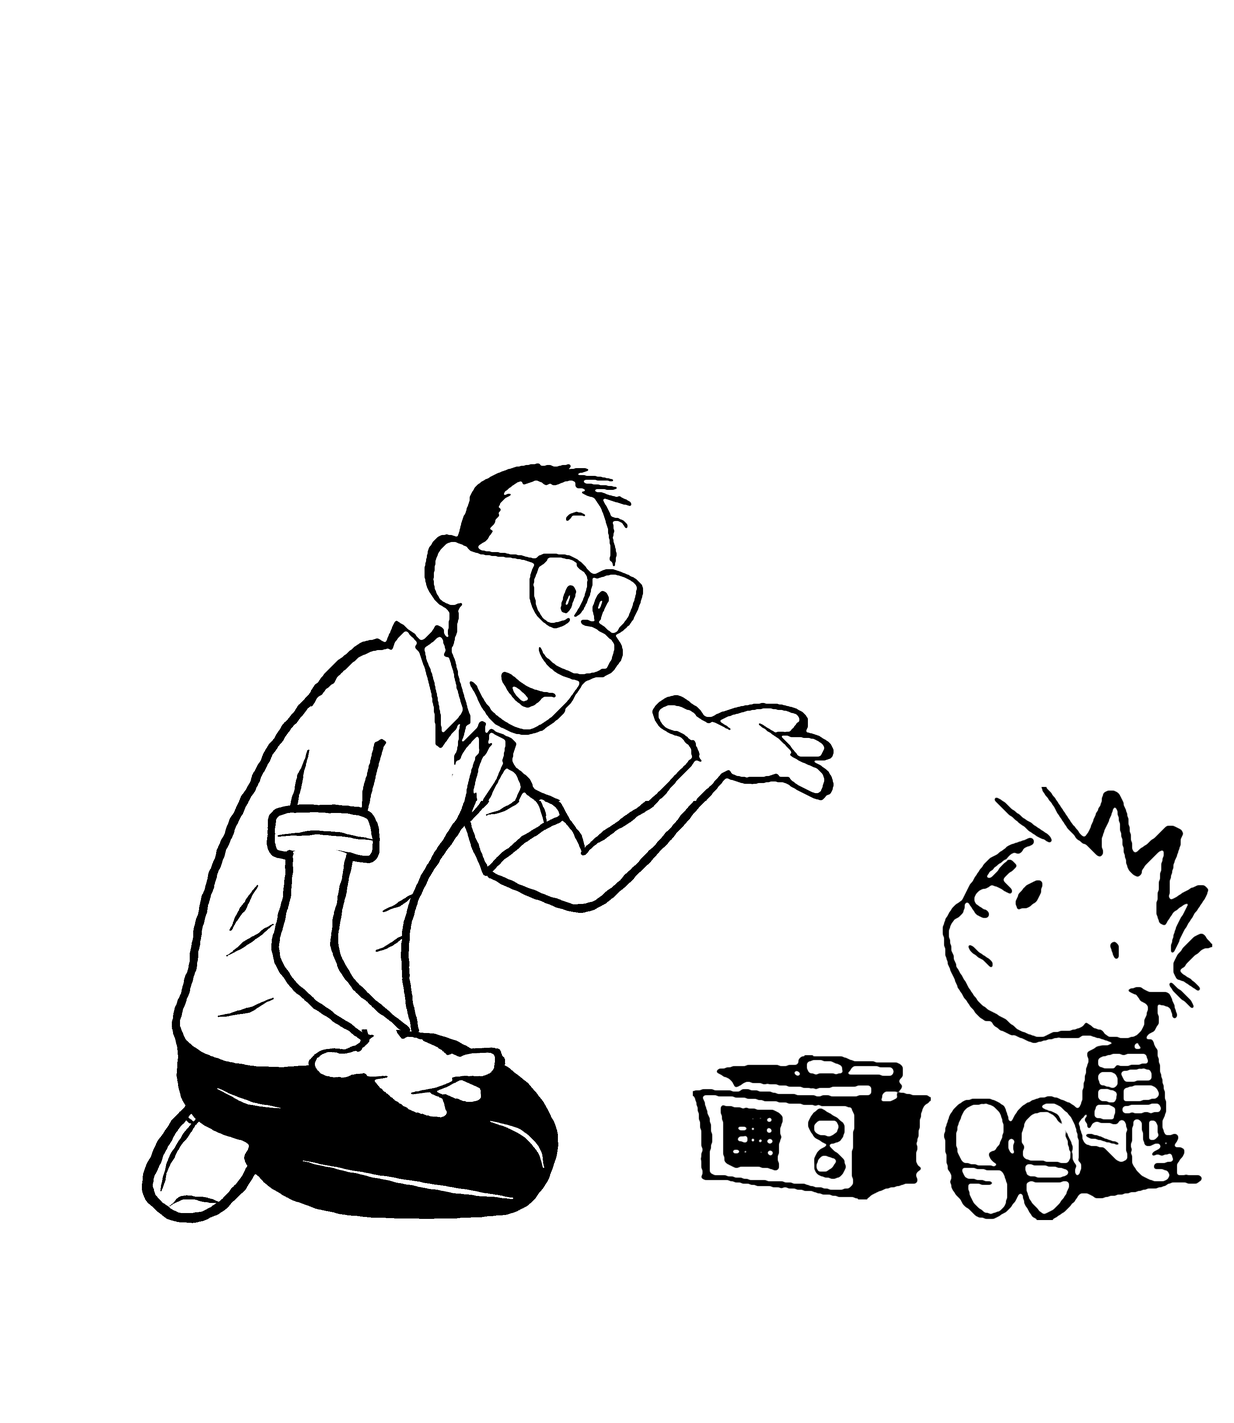
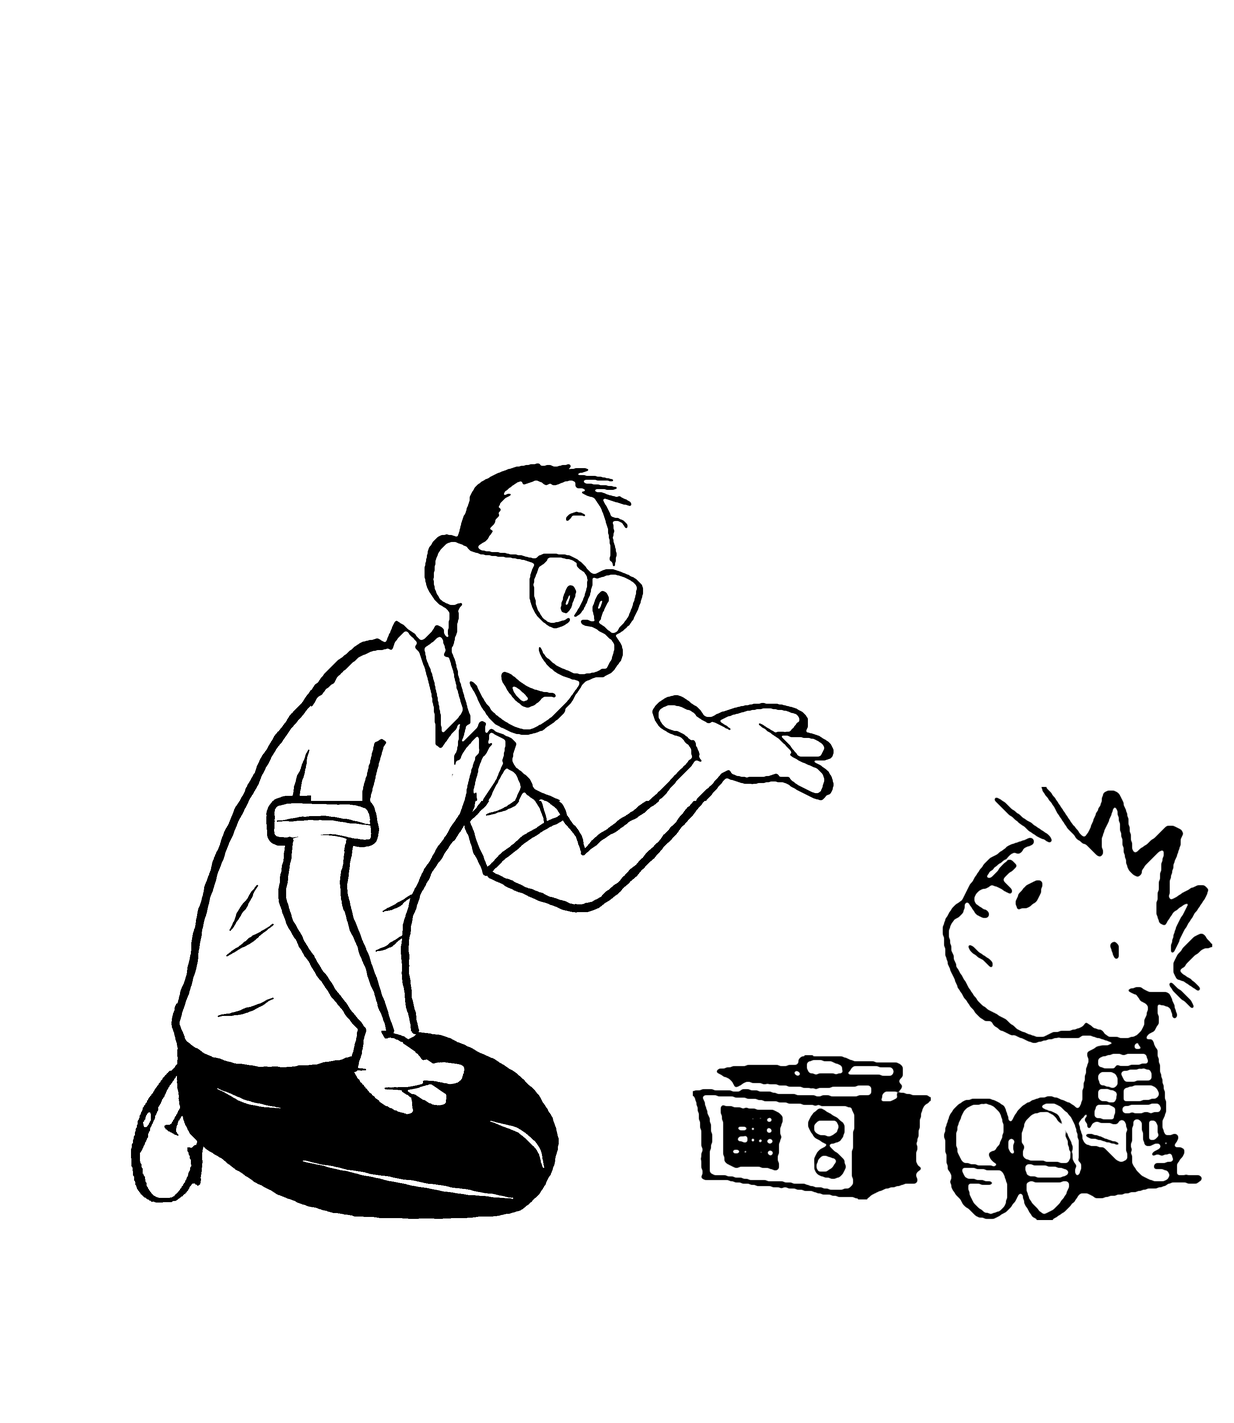
Tuck Dad's feet under him, shorten his arm, drape the resting hand
Following Watterson's crouching Dads on pages 226 and 237, the trailing
foot in both close-ups is now tucked under him on its toes, heel up
under the seat and sole facing back: panel 1's front shoe turned over.
In panel 2 the shin lifts off the floor towards the ankle, with a fold
at the calf, so the legs no longer read as one flat slab.

In panel 3 the rolled sleeve ends where the scanned sleeve edge does,
the upper arm drops straight to a definite elbow and the forearm reaches
forward to the thigh. The resting hand is smaller, tilted to drape over
the thigh, and drawn without its thumb, which on a hand resting palm
down lies along the inside of the thigh.

Changed region(s): [[0.2183, 0.5607, 0.4055, 0.8098], [0.0936, 0.7475, 0.2183, 0.8721]]

diff --git a/panels.html b/panels.html
@@ -7,13 +7,13 @@
 <section id="panel-1"><h2>Panel 1</h2><p>Original central artwork with the existing completed left extension.</p>
 <p class="details">2834 × 2066 pixels · original-crop agreement: 100% · <a href="assets/full-panels/panel1.png?v=b03ae498a9" download="panel1.png">Download PNG</a> · <a href="assets/full-panels/panel1.png?v=b03ae498a9" target="_blank" rel="noopener">Open full size</a></p>
 <label><input class="show-source" type="checkbox"> Show original crop overlay</label>
-<div class="scroll"><div class="stage" style="--native-width:2834px"><img class="complete" src="assets/full-panels/panel1.png?v=b03ae498a9" width="2834" height="2066" alt="Completed comic panel 1 without dialogue" loading="lazy"><img class="source" src="assets/full-panels/original1.png" style="left:14.114326040931546%;top:0.0%;width:57.657021877205366%" width="1634" height="2066" alt="Original crop of panel 1" hidden></div></div></section><section id="panel-2"><h2>Panel 2</h2><p>Dad points to the record, sitting back on his heels. His trousers are drawn in code (drawn_legs.py); the trailing shoe is panel 1's planted shoe turned sole up. The player uses the grille and knobs from panel 1.</p>
-<p class="details">3182 × 3660 pixels · original-crop agreement: 99.251% · <a href="assets/full-panels/panel2.png?v=f43d609ae7" download="panel2.png">Download PNG</a> · <a href="assets/full-panels/panel2.png?v=f43d609ae7" target="_blank" rel="noopener">Open full size</a></p>
+<div class="scroll"><div class="stage" style="--native-width:2834px"><img class="complete" src="assets/full-panels/panel1.png?v=b03ae498a9" width="2834" height="2066" alt="Completed comic panel 1 without dialogue" loading="lazy"><img class="source" src="assets/full-panels/original1.png" style="left:14.114326040931546%;top:0.0%;width:57.657021877205366%" width="1634" height="2066" alt="Original crop of panel 1" hidden></div></div></section><section id="panel-2"><h2>Panel 2</h2><p>Dad points to the record, sitting back on his heels. His trousers are drawn in code (drawn_legs.py); his foot is tucked under him on its toes, using panel 1's front shoe turned over. The player uses the grille and knobs from panel 1.</p>
+<p class="details">3182 × 3660 pixels · original-crop agreement: 99.251% · <a href="assets/full-panels/panel2.png?v=860604fcc2" download="panel2.png">Download PNG</a> · <a href="assets/full-panels/panel2.png?v=860604fcc2" target="_blank" rel="noopener">Open full size</a></p>
 <label><input class="show-source" type="checkbox"> Show original crop overlay</label>
-<div class="scroll"><div class="stage" style="--native-width:3182px"><img class="complete" src="assets/full-panels/panel2.png?v=f43d609ae7" width="3182" height="3660" alt="Completed comic panel 2 without dialogue" loading="lazy"><img class="source" src="assets/full-panels/original2.png" style="left:25.1414204902577%;top:0.0%;width:49.7171590194846%" width="1582" height="2060" alt="Original crop of panel 2" hidden></div></div></section><section id="panel-3"><h2>Panel 3</h2><p>Dad rests his hand on his thigh. Everything of him outside the scanned crop is drawn in code (drawn_legs.py); the resting hand is his scanned gesturing hand turned palm down. Calvin looks up at Dad with his feet still toward the player. His figure and the player come from panel 1, enlarged by 56% for this closer view.</p>
-<p class="details">3174 × 3660 pixels · original-crop agreement: 100% · <a href="assets/full-panels/panel3.png?v=e04a8ea2f8" download="panel3.png">Download PNG</a> · <a href="assets/full-panels/panel3.png?v=e04a8ea2f8" target="_blank" rel="noopener">Open full size</a></p>
+<div class="scroll"><div class="stage" style="--native-width:3182px"><img class="complete" src="assets/full-panels/panel2.png?v=860604fcc2" width="3182" height="3660" alt="Completed comic panel 2 without dialogue" loading="lazy"><img class="source" src="assets/full-panels/original2.png" style="left:25.1414204902577%;top:0.0%;width:49.7171590194846%" width="1582" height="2060" alt="Original crop of panel 2" hidden></div></div></section><section id="panel-3"><h2>Panel 3</h2><p>Dad rests his hand on his thigh. Everything of him outside the scanned crop is drawn in code (drawn_legs.py); the resting hand is his scanned gesturing hand turned palm down. Calvin looks up at Dad with his feet still toward the player. His figure and the player come from panel 1, enlarged by 56% for this closer view.</p>
+<p class="details">3174 × 3660 pixels · original-crop agreement: 100% · <a href="assets/full-panels/panel3.png?v=491ff4bb35" download="panel3.png">Download PNG</a> · <a href="assets/full-panels/panel3.png?v=491ff4bb35" target="_blank" rel="noopener">Open full size</a></p>
 <label><input class="show-source" type="checkbox"> Show original crop overlay</label>
-<div class="scroll"><div class="stage" style="--native-width:3174px"><img class="complete" src="assets/full-panels/panel3.png?v=e04a8ea2f8" width="3174" height="3660" alt="Completed comic panel 3 without dialogue" loading="lazy"><img class="source" src="assets/full-panels/original3.png" style="left:25.20478890989288%;top:0.0%;width:49.59042218021424%" width="1574" height="2060" alt="Original crop of panel 3" hidden></div></div></section><section id="panel-4"><h2>Panel 4</h2><p>Original night scene with the existing completed left side of the bed.</p>
+<div class="scroll"><div class="stage" style="--native-width:3174px"><img class="complete" src="assets/full-panels/panel3.png?v=491ff4bb35" width="3174" height="3660" alt="Completed comic panel 3 without dialogue" loading="lazy"><img class="source" src="assets/full-panels/original3.png" style="left:25.20478890989288%;top:0.0%;width:49.59042218021424%" width="1574" height="2060" alt="Original crop of panel 3" hidden></div></div></section><section id="panel-4"><h2>Panel 4</h2><p>Original night scene with the existing completed left side of the bed.</p>
 <p class="details">2368 × 2042 pixels · original-crop agreement: 100% · <a href="assets/full-panels/panel4.png?v=4821633204" download="panel4.png">Download PNG</a> · <a href="assets/full-panels/panel4.png?v=4821633204" target="_blank" rel="noopener">Open full size</a></p>
 <label><input class="show-source" type="checkbox"> Show original crop overlay</label>
 <div class="scroll"><div class="stage" style="--native-width:2368px"><img class="complete" src="assets/full-panels/panel4.png?v=4821633204" width="2368" height="2042" alt="Completed comic panel 4 without dialogue" loading="lazy"><img class="source" src="assets/full-panels/original4.png" style="left:16.89189189189189%;top:0.0%;width:66.21621621621621%" width="1568" height="2042" alt="Original crop of panel 4" hidden></div></div></section><footer><p>The source comparisons use the cleaned, smoothed artwork extracted from page 247, with lettering and balloons removed. Panel 4’s signature remains a separate asset. Agreement percentages count every pixel in the original crop, including white background; panel 2 includes the earlier elbow repair. Panel 3 preserves every original ink pixel and directly reuses the original seated Calvin and record player.</p><p><a href="assets/full-panels/verification.json">Pixel comparison results</a> · <a href="assets/full-panels/provenance.json">Artwork sources and rebuild steps</a></p></footer></main>

diff --git a/tools/extensions/reconstruction-v2/drawn_legs.py b/tools/extensions/reconstruction-v2/drawn_legs.py
@@ -4,9 +4,9 @@ The scan stops at Dad's waist in panel 2 and at his chest in panel 3, so
 everything of him beyond the crops is drawn here rather than generated:
 his legs and shoes in both, and in panel 3 also his back, shirt, sleeves,
 arms and the hand resting on his thigh. Where Watterson drew the same
-thing elsewhere in the strip it is reused instead (see transplant): panel
-2's trailing shoe is panel 1's planted shoe turned sole up, and panel 3's
-resting hand is his own gesturing hand turned palm down. The drawing follows the
+thing elsewhere in the strip it is reused instead (see transplant): the
+tucked-under shoe in both is panel 1's front shoe turned over, and panel
+3's resting hand is his own gesturing hand turned palm down. The drawing follows the
 strip itself: Dad's trousers are a flat black silhouette with a few thin
 white folds, as in panel 1, and his shoes are panel 1's white shoes with a
 heavy outline, a sole line just inside it and a small heel notch. Sizes come
@@ -87,9 +87,9 @@ def thin_underarm(image):
 
 # Columns and rows of the underarm line in the panel 2 export.
 UNDERARM = (730, 1000, 1880, 1960)
-PANEL2_SHOE = (300, 2256)
-PANEL2_SHOE_TURN = 180
-PANEL2_SHOE_SCALE = (1.7, 1.7)
+PANEL2_SHOE = (372, 2206)
+PANEL2_SHOE_TURN = 181
+PANEL2_SHOE_SCALE = (1.25, 1.25)
 
 
 def panel_two(image):
@@ -98,16 +98,17 @@ def panel_two(image):
     ink = Ink((w, h), seed=2)
     # His near foot lies behind him on its upper, toe back on the floor and
     # sole turned up, heel under his seat. The far foot is hidden behind it.
-    shoe_ink, shoe_shape = panel_one_shoe(PANEL2_SHOE, PANEL2_SHOE_TURN, PANEL2_SHOE_SCALE, (w, h))
+    shoe_ink, shoe_shape = panel_one_shoe('front', PANEL2_SHOE, PANEL2_SHOE_TURN,
+                                          PANEL2_SHOE_SCALE, (w, h))
     ink.paint(shoe_shape, 255)
     ink.paint(shoe_ink, 0)
     # The trousers: seat, thigh and the shin folded under it along the floor,
     # ending in a cuff at the ankle just behind the seat. The first and last
     # three points are the scanned silhouette's edges on the crop's last
     # rows, so the drawing continues it without a step.
-    ink.fill([(426, 2000), (429, 2040), (432, 2058), (440, 2112), (458, 2160),
-              (488, 2196), (504, 2214), (478, 2236), (462, 2280), (460, 2336),
-              (474, 2376), (800, 2382), (1000, 2384), (1200, 2380), (1282, 2362),
+    ink.fill([(426, 2000), (429, 2040), (432, 2058), (440, 2112), (452, 2156),
+              (462, 2196), (474, 2240), (490, 2276), (540, 2306), (630, 2342),
+              (760, 2374), (1000, 2384), (1200, 2380), (1282, 2362),
               (1326, 2312), (1334, 2252), (1306, 2196), (1240, 2150), (1150, 2112),
               (1090, 2082), (1051, 2058), (1033, 2040), (980, 2000), (700, 1990)],
              wobble=1.2)
@@ -118,6 +119,9 @@ def panel_two(image):
                [2, 9, 11, 3], colour=255, wobble=0.6)
     ink.stroke([(560, 2150), (640, 2178), (700, 2186)],
                [2, 8, 2], colour=255, wobble=0.6)
+    # The calf, lifting off the floor towards the ankle.
+    ink.stroke([(720, 2330), (620, 2300), (540, 2262)],
+               [2, 9, 8, 2], colour=255, wobble=0.6)
     yy, xx = np.mgrid[:h, :w]
     region = (yy >= 2060) & (xx < 1540)
     return composite(thin_underarm(image), ink.mask(), region)
@@ -132,7 +136,9 @@ def outlined(ink, points, width=OUTLINE + 2):
 # The scanned gesturing hand in panel 3: its bounding box and the wrist, where
 # the two lines of the forearm reach the thumb (A) and the palm (B).
 SCAN_HAND_BOX = (1585, 1770, 2200, 2080)
-SCAN_WRIST = ((1745, 1950), (1875, 2005))
+SCAN_WRIST = ((1792, 1960), (1875, 2007))
+# Where the thumb joins the palm: up from the wrist's thumb end to the palm's top.
+SCAN_THUMB_BASE = ((1838, 1860), (1846, 1770))
 
 
 def transplant(source, keep, closing, pivot, target, angle, flip=False,
@@ -178,52 +184,78 @@ def transplant(source, keep, closing, pivot, target, angle, flip=False,
     return out[0], out[1], lambda point: tuple(forward @ (np.asarray(point) - pivot) + target)
 
 
-def resting_hand(image, target, angle):
+def resting_hand(image, target, angle, scale=1.0):
     """Panel 3's scanned open hand, turned palm down to rest on the thigh.
 
     The hand is flipped top to bottom about its wrist, which turns the palm
-    over and puts the thumb on the near side, then tilted by `angle` degrees
-    so the fingers follow the thigh down towards the knee, with the wrist's
-    midpoint at `target`. Returns the hand's ink and silhouette, and where
+    over, then tilted by `angle` degrees so the fingers drape over the thigh
+    towards the knee, with the wrist's midpoint at `target`. Its thumb is
+    left out: on a hand resting palm down it lies along the inside of the
+    thigh, out of sight. Returns the hand's ink and silhouette, and where
     the wrist's thumb and palm ends land.
     """
     x0, y0, x1, y1 = SCAN_HAND_BOX
     a, b = SCAN_WRIST
-    # Only the hand: the side of the wrist away from the elbow.
-    keep = [(x0, y0), (x1, y0), (x1, y1), (b[0] + 80, b[1] + 60), b, a, (x0, a[1])]
+    c, d = SCAN_THUMB_BASE
+    # The hand without its thumb: right of the thumb's base (cut a little
+    # inside it, clear of the thumb's own outline), beyond the wrist.
+    a = (a[0] + 14, a[1] + 4)
+    c, d = (c[0] + 10, c[1]), (d[0] + 10, d[1])
+    keep = [c, d, (x1, y0), (x1, y1), (b[0] + 80, b[1] + 60), b, a]
     middle = ((a[0] + b[0]) / 2, (a[1] + b[1]) / 2)
-    ink, shape, move = transplant(image, keep, [(a, b)], middle, target, angle,
-                                  flip=True, size=image.size)
-    return ink, shape, move(a), move(b)
+    ink, shape, move = transplant(image, keep, [(a, b), (a, c)], middle, target,
+                                  angle, flip=True, scale=(scale, scale), size=image.size)
+    # Ink the side of the hand where the thumb was cut away.
+    edge = Ink(image.size, seed=6)
+    edge.stroke([move(a), move(((a[0] + c[0]) / 2, (a[1] + c[1]) / 2)), move(c)],
+                [20, 22, 20])
+    return ink | edge.mask(), shape, move(a), move(b)
 
 
-# Dad's planted back shoe in panel 1, in side view, in the coordinates of
-# the full panel 1 export. Only the part inside the scanned crop (x >= 400)
-# is used; the trouser leg covers its top at the heel, so `keep` stops just
-# under the trouser's hem.
-PANEL1_SHOE_KEEP = [(400, 1872), (520, 1866), (670, 1866), (670, 2016), (400, 2016)]
-PANEL1_SHOE_CLOSE = [((400, 1872), (400, 2016)), ((400, 1874), (520, 1868))]
-PANEL1_SHOE_CENTRE = (530, 1940)
-PANEL1_SHOE_HIDDEN_TOP = [(380, 1874), (450, 1871), (520, 1872), (560, 1880)]
+# Dad's shoes in panel 1, in the coordinates of the full panel 1 export
+# (locked-1.png is that less 400px on the left). Each has a polygon around
+# it that stops at the trouser hem, the segments that close it there, a
+# centre to turn it about, and the line of the outline the trousers hid.
+PANEL1_SHOES = {
+    # The front shoe, landing heel first with its toe up and sole forward.
+    'front': dict(
+        keep=[(1130, 1620), (1130, 2020), (820, 2020), (820, 1900), (860, 1880),
+              (905, 1868), (950, 1840), (985, 1800), (990, 1700), (1000, 1620)],
+        close=[((860, 1882), (905, 1868)), ((905, 1868), (950, 1840)),
+               ((950, 1840), (985, 1800)), ((985, 1800), (992, 1720))],
+        centre=(975, 1845),
+        hidden=[(858, 1890), (905, 1868), (950, 1840), (985, 1800), (994, 1730)]),
+    # The planted back shoe in side view; only the part inside the scan.
+    'back': dict(
+        keep=[(400, 1872), (520, 1866), (670, 1866), (670, 2016), (400, 2016)],
+        close=[((400, 1872), (400, 2016)), ((400, 1874), (520, 1868))],
+        centre=(530, 1940),
+        hidden=[(380, 1874), (450, 1871), (520, 1872), (560, 1880)]),
+}
 
 
-def panel_one_shoe(target, angle, scale, size):
-    """Panel 1's planted shoe, turned over to lie behind Dad, sole up."""
+def panel_one_shoe(which, target, angle, scale, size):
+    """One of panel 1's shoes, moved to `target` and turned by `angle`."""
     from pathlib import Path
     from PIL import Image
+    shoe = PANEL1_SHOES[which]
     locked = Image.open(Path(__file__).resolve().parent / 'locked-1.png').convert('L')
     source = Image.new('L', (locked.width + 400, locked.height), 255)
     source.paste(locked, (400, 0))
-    ink, shape, move = transplant(source, PANEL1_SHOE_KEEP, PANEL1_SHOE_CLOSE,
-                                  PANEL1_SHOE_CENTRE, target, angle, scale=scale, size=size)
-    # Ink the top of the shoe where panel 1's trouser hem hid it.
+    ink, shape, move = transplant(source, shoe['keep'], shoe['close'], shoe['centre'],
+                                  target, angle, scale=scale, size=size)
     edge = Ink(size, seed=5)
-    edge.stroke([move(p) for p in PANEL1_SHOE_HIDDEN_TOP], [18, 22, 22, 20])
+    edge.stroke([move(p) for p in shoe['hidden']], [16, 20, 21, 20, 16])
     return ink | edge.mask(), shape
 
 
-HAND_WRIST = (975, 2648)
-HAND_TILT = 24
+PANEL3_SHOE = (530, 2870)
+PANEL3_SHOE_TURN = 178
+PANEL3_SHOE_SCALE = (1.42, 1.42)
+
+HAND_WRIST = (968, 2650)
+HAND_TILT = 34
+HAND_SCALE = 0.9
 
 
 def panel_three(image):
@@ -238,14 +270,18 @@ def panel_three(image):
     """
     w, h = image.size
     ink = Ink((w, h), seed=3)
-    # The near foot trails behind him, toe on the floor and its sole turned
-    # back towards the left, so we see it foreshortened under his seat.
-    shoe(ink, heel=(612, 2846), angle=124, scale=1.08, flip=True, foreshorten=0.6)
+    # His foot is tucked under him on its toes, heel up under his seat and
+    # sole turned back, as Watterson draws a crouching Dad: panel 1's front
+    # shoe turned over, with only its toe end showing below the seat.
+    shoe_ink, shoe_shape = panel_one_shoe('front', PANEL3_SHOE, PANEL3_SHOE_TURN,
+                                          PANEL3_SHOE_SCALE, (w, h))
+    ink.paint(shoe_shape, 255)
+    ink.paint(shoe_ink, 0)
     # The seat, the thigh running towards us to the knee and the shin folded
     # back under it to the cuff.
     ink.fill([(458, 2580), (446, 2642), (457, 2700), (456, 2740), (456, 2780),
-              (466, 2820), (488, 2860), (528, 2896), (590, 2924), (640, 2944),
-              (628, 2980), (668, 3030), (720, 3070), (800, 3104), (900, 3126),
+              (462, 2840), (478, 2896), (512, 2940), (566, 2978), (640, 3030),
+              (720, 3074), (800, 3104), (900, 3126),
               (1050, 3134), (1200, 3132), (1317, 3120), (1357, 3100), (1394, 3060),
               (1416, 3020), (1429, 2980), (1436, 2940), (1430, 2900), (1412, 2860),
               (1376, 2806), (1310, 2748), (1220, 2700), (1120, 2660), (900, 2660),
@@ -303,20 +339,20 @@ def panel_three(image):
                 (1572, 2298), (1640, 2234), (1722, 2148), (1799, 2059), (1846, 2005)],
                [18, 20, 21, 22, 22, 21, 22, 23])
 
-    # The near sleeve, rolled into a cuff above the elbow.
-    ink.stroke([(794, 1930), (772, 2000), (752, 2090)], [3, 16, 18])
-    ink.stroke([(953, 2000), (942, 2059), (936, 2094)], [20, 20, 18])
-    outlined(ink, [(708, 2094), (830, 2080), (948, 2098), (966, 2150), (958, 2206),
-                   (850, 2194), (706, 2192), (698, 2142)])
-    ink.stroke([(716, 2150), (830, 2142), (956, 2160)], [3, 11, 10, 3])
-    # The near arm hangs from the cuff, bends a little at the elbow and
-    # reaches forward to the thigh.
-    hand_ink, hand_shape, thumb_end, palm_end = resting_hand(image, HAND_WRIST, HAND_TILT)
-    left = [(745, 2196), (738, 2300), (714, 2400), (708, 2445), (734, 2506),
-            (800, 2574), thumb_end,
-            tuple(np.add(thumb_end, np.subtract(thumb_end, (800, 2574)) * 0.3))]
-    right = [(900, 2202), (880, 2300), (864, 2380), (862, 2440), (898, 2516),
-             (950, 2570), palm_end]
+    # The near sleeve, rolled into a cuff just below where its front edge
+    # leaves the crop at x=942.
+    ink.stroke([(794, 1930), (772, 2000), (756, 2066)], [3, 16, 18])
+    ink.stroke([(953, 2000), (942, 2059), (944, 2072)], [20, 20, 18])
+    outlined(ink, [(706, 2068), (830, 2058), (946, 2072), (962, 2115), (956, 2165),
+                   (850, 2156), (704, 2158), (696, 2112)])
+    ink.stroke([(714, 2112), (830, 2104), (954, 2122)], [3, 11, 10, 3])
+    # The upper arm hangs straight from the cuff to the elbow; the forearm
+    # reaches forward from there to the hand on his thigh.
+    hand_ink, hand_shape, thumb_end, palm_end = resting_hand(image, HAND_WRIST, HAND_TILT, HAND_SCALE)
+    left = [(745, 2162), (734, 2240), (726, 2296), (738, 2352), (790, 2450),
+            (860, 2556), thumb_end]
+    right = [(900, 2164), (890, 2230), (884, 2284), (900, 2360), (938, 2458),
+             (972, 2556), palm_end]
     ink.fill(left + right[::-1], colour=255, wobble=0)
     # The forearm's edges go over the hand's wrist so the two join.
     edges = Ink((w, h), seed=4)

diff --git a/tools/extensions/reconstruction-v2/build_review.py b/tools/extensions/reconstruction-v2/build_review.py
@@ -10,7 +10,7 @@ for r in records:
     n=r['panel'];w,h=r['size'];x,y=r['originalOffset'];ow,oh=r['originalSize']
     digest=hashlib.sha256((OUT/f'panel{n}.png').read_bytes()).hexdigest()[:10]
     match=f"{100*r['originalMatchFraction']:.3f}".rstrip('0').rstrip('.')
-    note={1:'Original central artwork with the existing completed left extension.',2:'Dad points to the record, sitting back on his heels. His trousers are drawn in code (drawn_legs.py); the trailing shoe is panel 1\'s planted shoe turned sole up. The player uses the grille and knobs from panel 1.',3:'Dad rests his hand on his thigh. Everything of him outside the scanned crop is drawn in code (drawn_legs.py); the resting hand is his scanned gesturing hand turned palm down. Calvin looks up at Dad with his feet still toward the player. His figure and the player come from panel 1, enlarged by 56% for this closer view.',4:'Original night scene with the existing completed left side of the bed.'}[n]
+    note={1:'Original central artwork with the existing completed left extension.',2:'Dad points to the record, sitting back on his heels. His trousers are drawn in code (drawn_legs.py); his foot is tucked under him on its toes, using panel 1\'s front shoe turned over. The player uses the grille and knobs from panel 1.',3:'Dad rests his hand on his thigh. Everything of him outside the scanned crop is drawn in code (drawn_legs.py); the resting hand is his scanned gesturing hand turned palm down. Calvin looks up at Dad with his feet still toward the player. His figure and the player come from panel 1, enlarged by 56% for this closer view.',4:'Original night scene with the existing completed left side of the bed.'}[n]
     parts.append(f'''<section id="panel-{n}"><h2>Panel {n}</h2><p>{note}</p>
 <p class="details">{w} × {h} pixels · original-crop agreement: {match}% · <a href="assets/full-panels/panel{n}.png?v={digest}" download="panel{n}.png">Download PNG</a> · <a href="assets/full-panels/panel{n}.png?v={digest}" target="_blank" rel="noopener">Open full size</a></p>
 <label><input class="show-source" type="checkbox"> Show original crop overlay</label>
